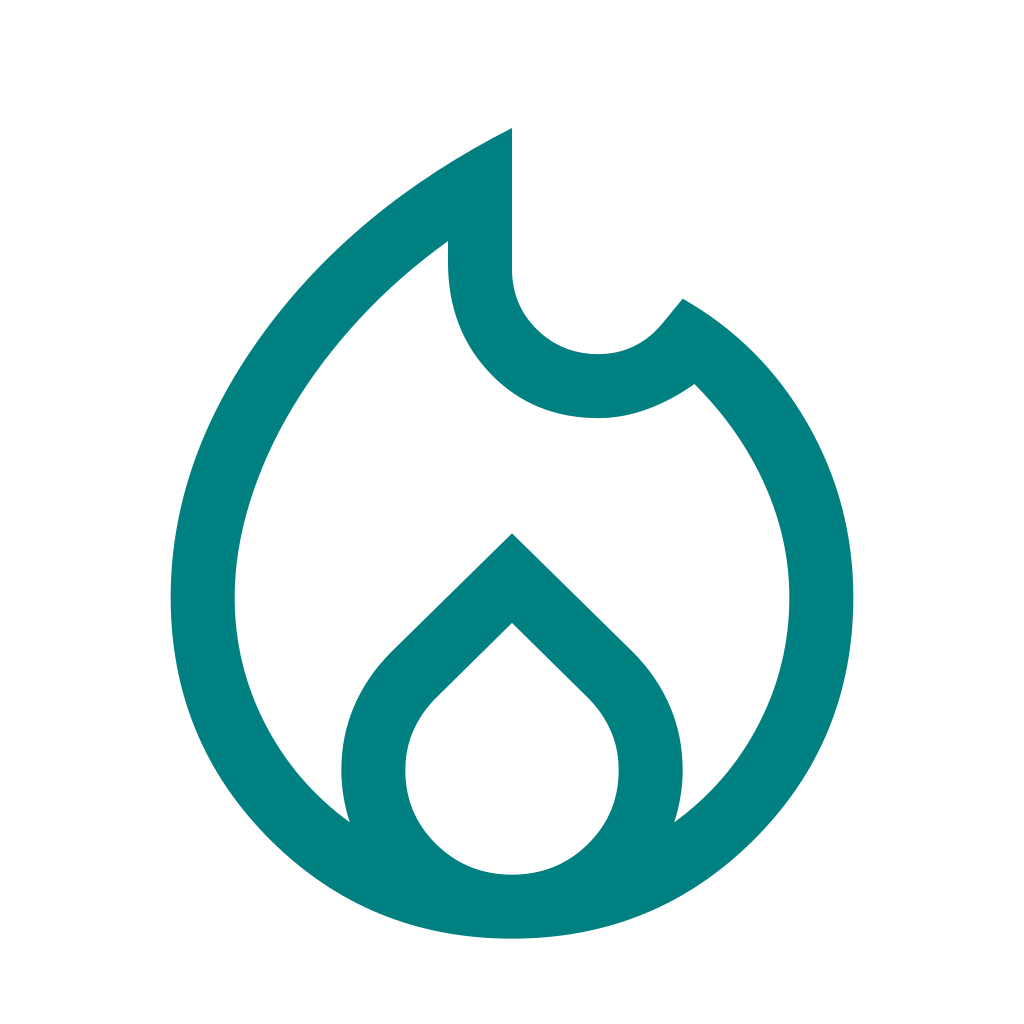
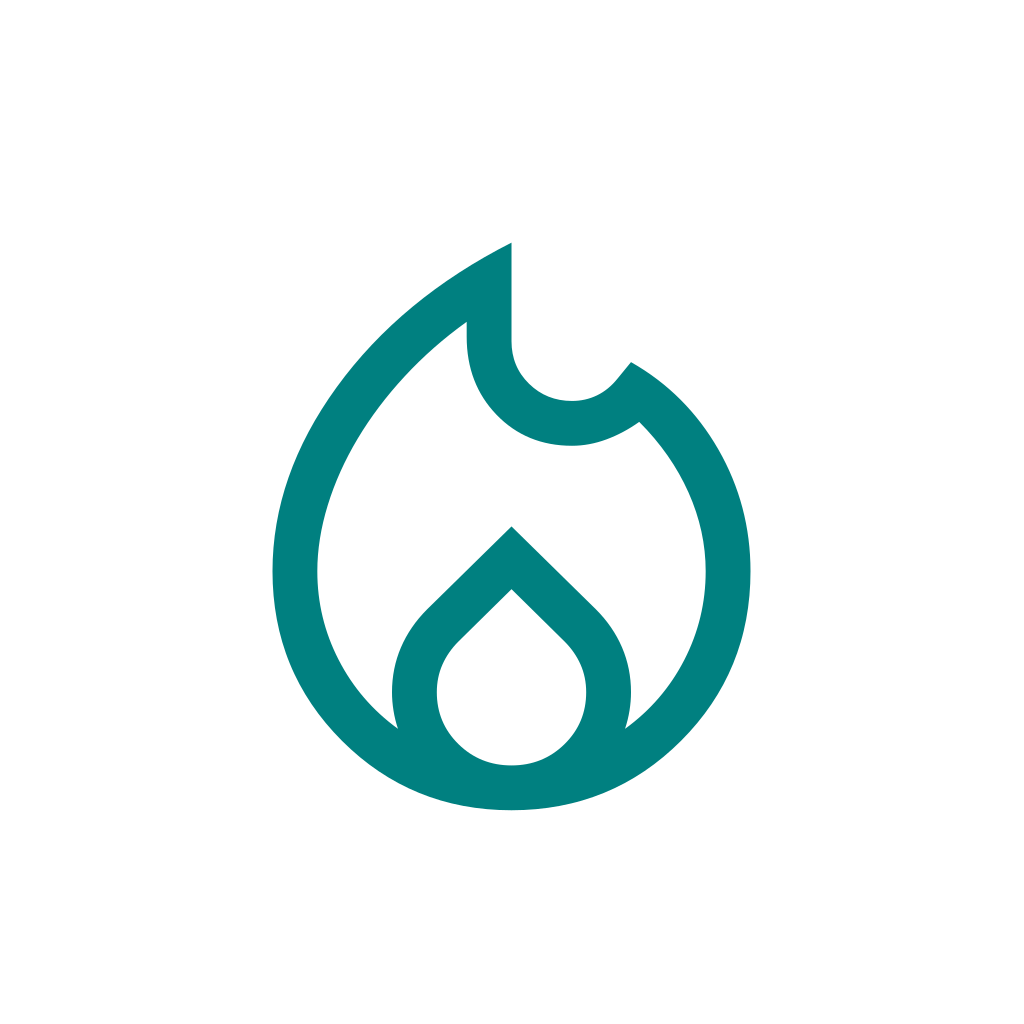
text font fixes

Changed region(s): [[0.1562, 0.125, 0.8438, 0.9375]]

diff --git a/components/Appbar.tsx b/components/Appbar.tsx
@@ -35,34 +35,3 @@ const Appbar = ({
 export default Appbar;
 
 const styles = StyleSheet.create({});
-// return (
-//     <SafeAreaView edges={["top"]} style={{ backgroundColor: "teal" }}>
-//       <View
-//         style={{
-//           height: 30 + Constants.statusBarHeight,
-//           paddingHorizontal: 16,
-//           alignItems: "center",
-//           flexDirection: "row",
-//           columnGap: 8,
-//         }}
-//       >
-//         {(navigation.canGoBack()) && <MaterialCommunityIcons
-//           color={"#fff"}
-//           size={24}
-//           name="arrow-left"
-//           onPress={() => {
-//             if (navigation.canGoBack()) {
-//               navigation.goBack();
-//             }
-//           }}
-//         />}
-//         <Text style={{ color: "#fff", fontSize: 24, fontFamily: "SpaceMono", flex:1 }}>
-//           {title}
-//         </Text>
-
-//         <View>
-//         {right && right}
-//         </View>
-//       </View>
-//     </SafeAreaView>
-//   );

diff --git a/app/journal/view/[id].tsx b/app/journal/view/[id].tsx
@@ -1,7 +1,7 @@
 import { useJournalStore } from "@/zustand/journal.store";
 import { useLocalSearchParams, useNavigation } from "expo-router";
 import { useEffect, useState } from "react";
-import { Button, IconButton, Surface } from "react-native-paper";
+import { Button, IconButton, Surface, Text } from "react-native-paper";
 // import {
 //   AlertDialog,
 //   AlertDialogAction,
@@ -18,7 +18,7 @@ import Appbar from "@/components/Appbar";
 import { M3Input } from "@/components/ui/M3Input";
 import { showToast } from "@/utils/showToast";
 import React from "react";
-import { StyleSheet, Text, View } from "react-native";
+import { StyleSheet, View } from "react-native";
 import { SafeAreaView } from "react-native-safe-area-context";
 
 const ViewJournalScreen = () => {
@@ -40,7 +40,7 @@ const ViewJournalScreen = () => {
   if (!journal) {
     return (
       <View className="flex-1 flex-col items-center justify-center">
-        <Text>Journal not found.</Text>
+        <Text variant="titleMedium">Journal not found.</Text>
         <View>
           <Button onPress={() => {}}>Go Back</Button>
         </View>

diff --git a/app/(tabs)/journal.tsx b/app/(tabs)/journal.tsx
@@ -46,10 +46,10 @@ const JournalPage = () => {
                 <Link href={`/journal/view/${journal.id}`}>
                 <Card className="w-full" mode="outlined">
                   <Card.Content>
-                  <Text className="font-medium text-sm text-muted-foreground">
+                  <Text variant="titleMedium">
                     {formattedDate}
                   </Text>
-                  <Text className="line-clamp-3 text-sm leading-relaxed whitespace-pre-wrap text-foreground">
+                  <Text variant="titleSmall" className="line-clamp-3 leading-relaxed whitespace-pre-wrap text-foreground">
                     {journal.content}
                   </Text>
                   </Card.Content>

diff --git a/app/(tabs)/pills.tsx b/app/(tabs)/pills.tsx
@@ -67,7 +67,7 @@ const PillsScreen = () => {
                         <View className="flex-row items-center w-full">
                           <View className="flex-1">
                             <Text
-                              style={{ fontSize: 20, fontFamily: "SpaceMono" }}
+                              variant="titleMedium"
                             >
                               {pill.name}
                             </Text>
@@ -97,7 +97,7 @@ const PillsScreen = () => {
                             ></IconButton>
                           </View>
                         </View>
-                        <Text style={{ fontFamily: "SpaceMono" }}>
+                        <Text variant="titleSmall">
                           Taken as ({pill.unit})
                         </Text>
                         <View className="flex-row justify-between w-full items-center">

diff --git a/app/streaks/view/[id].tsx b/app/streaks/view/[id].tsx
@@ -92,8 +92,8 @@ const ViewPage = () => {
                           size={28}
                           style={{ textAlign: "center", marginTop: 10 }}
                         />
-                        <Text>{item.trophy}</Text>
-                        <Text>{item.days} Days</Text>
+                        <Text variant="titleMedium">{item.trophy}</Text>
+                        <Text variant="titleMedium">{item.days} Days</Text>
                       </View>
                     </View>
                   ))}

diff --git a/components/StreakComponents/DurationStep.tsx b/components/StreakComponents/DurationStep.tsx
@@ -36,10 +36,10 @@ const DurationStep = ({
                   //   }`}
                 >
                   <Card
+                  mode="outlined"
                     style={{
                       borderColor:
                         formData.totalCount === item.days ? "teal" : "grey",
-                      borderWidth: 2,
                     }}
                   >
                     <Card.Title
@@ -48,7 +48,7 @@ const DurationStep = ({
                     <Card.Content>
                       <View className="flex-row items-center gap-2 mt-3">
                         <ThemedIcon name="trophy" size={20} />
-                        <Text>{item.trophy} Trophy</Text>
+                        <Text variant="titleSmall">{item.trophy} Trophy</Text>
                       </View>
                     </Card.Content>
                   </Card>

diff --git a/components/StreakComponents/ScheduleStep.tsx b/components/StreakComponents/ScheduleStep.tsx
@@ -47,8 +47,8 @@ const ScheduleStep = ({
         <Card.Title title="Start Date"></Card.Title>
         <Card.Content>
           {/* content */}
-          <View className="text-center">
-            <Text className="text-xl font-bold">
+          <View>
+            <Text variant="titleMedium" style={{textAlign:"center"}}>
               {selectedDate.toLocaleDateString("en-US", {
                 month: "long",
                 day: "numeric",

diff --git a/components/StreakComponents/TitleStep.tsx b/components/StreakComponents/TitleStep.tsx
@@ -39,7 +39,7 @@ const TitleStep = ({
           <View className="min-h-46">
             <View className="">
               <View>
-                <Text className="mb-3">Title</Text>
+                <Text variant="titleMedium" className="mb-3">Title</Text>
                 <M3Input
                   className={`border-b`}
                   value={formData.title}
@@ -60,7 +60,7 @@ const TitleStep = ({
                 <Text style={{color:"red", marginTop:8}} >{errorMsg}</Text>
               </View>
 
-              <Text className="text-gray-600 mb-3">Examples:</Text>
+              <Text variant="titleSmall" className="text-gray-600 mb-3">Examples:</Text>
               <View className="flex-row gap-2">
                 <TouchableOpacity
                   onPress={() => {

diff --git a/app/streaks/add.tsx b/app/streaks/add.tsx
@@ -79,7 +79,7 @@ const AddScreen = () => {
       <View className="flex-1 px-4 ">
 
         <View className="mt-4 mb-2">
-          <Text className="text-xl">
+          <Text variant="titleMedium">
             {`Step : ${currentStep}/${stepTask.length} - ${
               stepTask[currentStep - 1]
             }`}

diff --git a/components/PillsComponents/NameUnitStep.tsx b/components/PillsComponents/NameUnitStep.tsx
@@ -59,7 +59,7 @@ const NameUnitStep = ({
               {errorMsg}
             </Text>
             <View className="mt-4">
-              <Text>Unit</Text>
+              <Text variant="titleMedium">Unit</Text>
               <View>
                 <Picker
                   dropdownIconColor={theme === "dark" ? "#ffffff" : "#000000"}

diff --git a/components/StreakComponents/ResonStep.tsx b/components/StreakComponents/ResonStep.tsx
@@ -22,7 +22,7 @@ const ResonStep = ({
         <Card.Content>
           {/* content */}
           <View className="">
-            <Text className="mb-4">Why {`(Optional)`}</Text>
+            <Text variant="titleMedium" className="mb-4">Why {`(Optional)`}</Text>
             <M3Input
               className="border-b "
               placeholder="Remind Your Future Self"

diff --git a/components/TodoComponents/TodoCard.tsx b/components/TodoComponents/TodoCard.tsx
@@ -87,7 +87,7 @@ const TodoCard = ({
                 onStartEdit();
               }}
             >
-              <Text style={styles.text}>{todo.title}</Text>
+              <Text variant="titleMedium" style={styles.text}>{todo.title}</Text>
             </Pressable>
           )}
         </View>